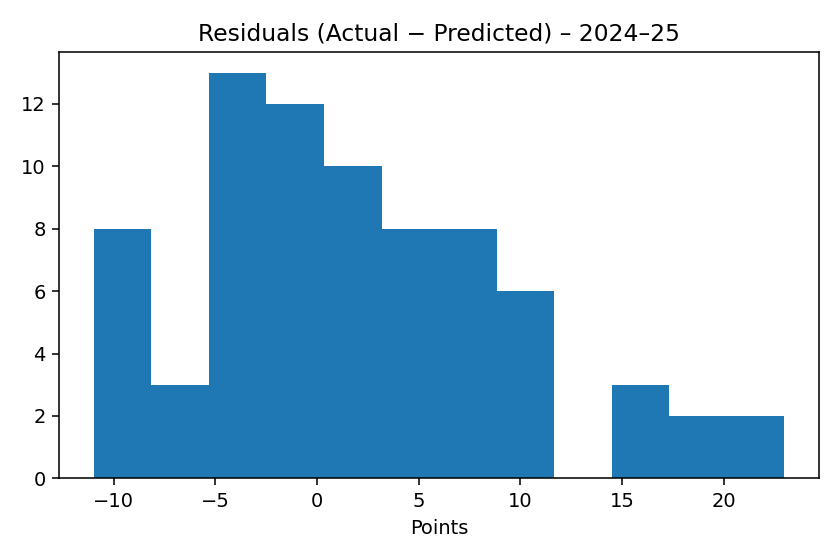
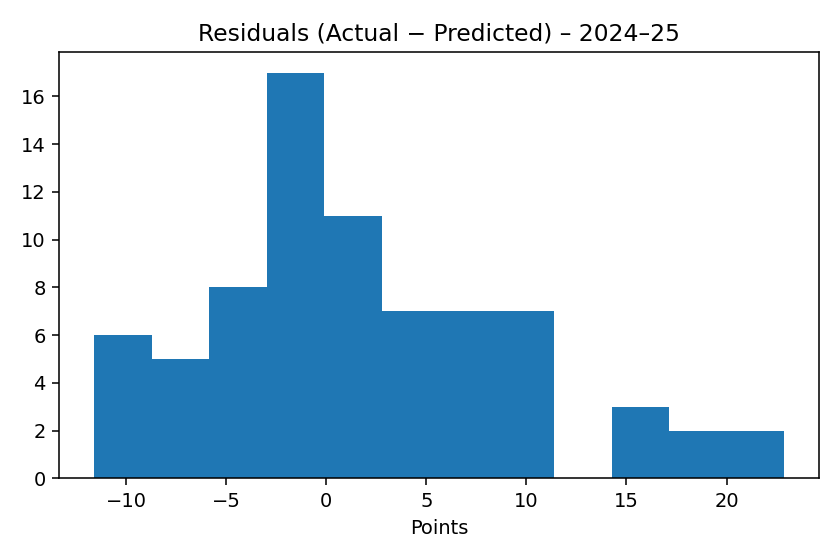
Started refinement f the ElasticNet model with SGA data.

diff --git a/Data/src/Models/sga_elasticnet.py b/Data/src/Models/sga_elasticnet.py
@@ -1,5 +1,6 @@
 import os
 from dotenv import load_dotenv
+
 import time
 import numpy as np
 import pandas as pd
@@ -8,7 +9,7 @@ import matplotlib.pyplot as plt
 from pymongo import MongoClient, UpdateOne
 
 from sklearn.pipeline import Pipeline
-from sklearn.preprocessing import StandardScaler
+from sklearn.preprocessing import StandardScaler, RobustScaler
 from sklearn.linear_model import ElasticNet
 from sklearn.model_selection import GridSearchCV
 from sklearn.metrics import mean_absolute_error, mean_squared_error, r2_score
@@ -44,15 +45,26 @@ DB_NAME   = "sportsinsight"
 PRED_COLL = "predictions_2024_25"
 
 # modest, pre-declared HP grid (no optimization theater)
-PARAM_GRID = {
-    "model__alpha":    [1e-3, 3e-3, 1e-2, 3e-2, 1e-1],
-    "model__l1_ratio": [0.3, 0.5, 0.7],
-}
-
-FEATURE_COLS = [
-    "PTS_L5","REB_L5","AST_L5","MIN_L5","FGA_L5","FTA_L5","FG3A_L5",
-    "OPP_DEF_RATING","REST_DAYS","IS_HOME"
+PARAM_GRID = [
+  {
+    "model": [ElasticNet(max_iter=50000, tol=1e-5, random_state=42)],
+    "model__alpha":    [0.01, 0.02, 0.05, 0.08, 0.12, 0.2],
+    "model__l1_ratio": [0.1, 0.3, 0.5, 0.7],  # <- drop 0.9/1.0 for now
+  },
 ]
+
+BASE_FEATURES = [
+    "PTS_L5","REB_L5","AST_L5","MIN_L5","FGA_L5","FTA_L5","FG3A_L5",
+    "OPP_DEF_RATING","REST_DAYS","IS_HOME","IS_B2B","PTSxMIN_L5",
+    "PTS_per_MIN_L5","FGA_per_MIN_L5","FTr_L5","3PAr_L5"
+]
+
+# Start simple: EWMA(3) and Median(5) for PTS; both are shifted(1) to avoid leakage
+SMOOTH_FEATURES = [
+    "PTS_EWMA3","PTS_MED5",
+    "FGA_EWMA3","FGA_MED5","FTA_EWMA3","FTA_MED5"
+]
+FEATURE_COLS = BASE_FEATURES + SMOOTH_FEATURES
 
 def fetch_gamelog(player_id: int, season: str) -> pd.DataFrame:
     """Use cached fetch, then normalize columns and attach SEASON."""
@@ -97,6 +109,27 @@ def team_def_rating_map(season: str) -> dict:
     """Wrapper that uses cached LeagueDashTeamStats for DEF_RATING."""
     return team_def_rating_map_cached(season=season, sleep_sec=SLEEP_SEC)
 
+def add_smoothing_features(df: pd.DataFrame,
+                           target_col: str = "PTS",
+                           ewm_spans=(3,),
+                           med_windows=(5,)) -> pd.DataFrame:
+    """
+    Adds non-leaky smoothing features on `target_col`.
+    - EWMA uses .ewm(span=s, adjust=False).mean().shift(1)
+    - MED uses .rolling(w).median().shift(1)
+    Assumes df is already sorted by GAME_DATE ascending.
+    """
+    out = df.copy()
+    for s in ewm_spans:
+        out[f"{target_col}_EWMA{s}"] = (
+            out[target_col].ewm(span=s, adjust=False).mean().shift(1)
+        )
+    for w in med_windows:
+        out[f"{target_col}_MED{w}"] = (
+            out[target_col].rolling(w).median().shift(1)
+        )
+    return out
+
 def build_features(df_all: pd.DataFrame) -> pd.DataFrame:
     """Compute past-only features across concatenated seasons, then drop rows missing history."""
     if "SEASON" not in df_all.columns:
@@ -110,6 +143,12 @@ def build_features(df_all: pd.DataFrame) -> pd.DataFrame:
     opp_home = df_all["MATCHUP"].apply(parse_opp_abbr)
     df_all["OPP_ABBR"] = opp_home.apply(lambda x: x[0])
     df_all["IS_HOME"]  = opp_home.apply(lambda x: x[1]).astype(int)
+
+    df_all = df_all.sort_values("GAME_DATE").reset_index(drop=True)
+
+    df_all["TRAVEL"] = (
+        df_all.groupby("SEASON")["IS_HOME"].diff().fillna(0).ne(0).astype(int)
+    )
 
     # Opponent DEF_RATING by season (fallback to median)
     def_maps = {}
@@ -133,11 +172,30 @@ def build_features(df_all: pd.DataFrame) -> pd.DataFrame:
     # For season openers, use days since previous season game if available; otherwise default to 3
     df_all["REST_DAYS"] = df_all["REST_DAYS"].fillna(3).clip(lower=0)
 
-    # Rolling L5 means (shifted) across full chronology (OK: uses prior-season tail for season openers)
+    df_all["IS_B2B"] = (df_all["REST_DAYS"] == 0).astype(int)
+
+    # Rolling L5 means (shifted) across full chronology
     df_all = df_all.sort_values("GAME_DATE").reset_index(drop=True)
     for col in ["PTS","REB","AST","MIN","FGA","FTA","FG3A"]:
         if col in df_all.columns:
             df_all[f"{col}_L5"] = df_all[col].rolling(5).mean().shift(1)
+            df_all[f"{col}_L3"] = df_all[col].rolling(3).mean().shift(1)
+
+    for col in ["FGA","FTA"]:
+        df_all[f"{col}_EWMA3"] = df_all[col].ewm(span=3, adjust=False).mean().shift(1)
+        df_all[f"{col}_MED5"]  = df_all[col].rolling(5).median().shift(1)
+
+    df_all["PTS_EWMA3"] = df_all["PTS"].ewm(span=3, adjust=False).mean().shift(1)
+    df_all["PTS_MED5"]  = df_all["PTS"].rolling(5).median().shift(1)
+    
+    if {"PTS_L5", "MIN_L5"}.issubset(df_all.columns):
+        df_all["PTSxMIN_L5"] = df_all["PTS_L5"] * df_all["MIN_L5"]
+
+    eps = 1e-6
+    df_all["PTS_per_MIN_L5"] = df_all["PTS_L5"] / (df_all["MIN_L5"] + eps)
+    df_all["FGA_per_MIN_L5"] = df_all["FGA_L5"] / (df_all["MIN_L5"] + eps)
+    df_all["FTr_L5"]         = df_all["FTA_L5"] / (df_all["FGA_L5"] + eps)
+    df_all["3PAr_L5"]        = df_all["FG3A_L5"] / (df_all["FGA_L5"] + eps)
 
     # Season-to-date average baseline (shifted, per season)
     df_all["PTS_SEASON_TD"] = df_all.groupby("SEASON")["PTS"] \
@@ -175,16 +233,17 @@ def evaluate_and_report(y_true, y_pred, y_l5, y_season_td):
     print(f"RMSE:       {rmse:.3f}")
     print(f"Median AE:  {med:.3f}")
     print(f"R^2:        {r2:.3f}")
-    print(f"MAE (L5):   {mae_l5:.3f}   → Skill vs L5: {skill_l5:.1f}%")
-    print(f"MAE (STD):  {mae_std:.3f}  → Skill vs Season-to-date: {skill_std:.1f}%")
+    print(f"MAE (L5):   {mae_l5:.3f}   -> Skill vs L5: {skill_l5:.1f}%")
+    print(f"MAE (STD):  {mae_std:.3f}  -> Skill vs Season-to-date: {skill_std:.1f}%")
     return dict(MAE=mae, RMSE=rmse, MedAE=med, R2=r2, MAE_L5=mae_l5, MAE_STD=mae_std,
                 Skill_L5=skill_l5, Skill_STD=skill_std)
 
 def save_plots(pred_df: pd.DataFrame):
+
     # Pred vs Actual
     plt.figure(figsize=(10,5))
     plt.plot(pd.to_datetime(pred_df["GAME_DATE"]), pred_df["PTS"], marker="o", label="Actual PTS")
-    plt.plot(pd.to_datetime(pred_df["GAME_DATE"]), pred_df["PRED_PTS"], marker="o", label="ElasticNet")
+    plt.plot(pd.to_datetime(pred_df["GAME_DATE"]), pred_df["PRED_PTS"], marker="o", label="ElasticNet (calibrated)")
     plt.plot(pd.to_datetime(pred_df["GAME_DATE"]), pred_df["L5_BASELINE"], linestyle="--", label="L5 baseline")
     plt.xticks(rotation=45, ha="right")
     plt.title("SGA – Predicted vs Actual (2024–25)")
@@ -229,6 +288,14 @@ def save_predictions_to_mongo(pred_df: pd.DataFrame):
     except Exception as e:
         print(f"(Mongo warning) Could not save predictions: {e}")
 
+def show_coefs(pipe, feat_cols):
+    lr = pipe.named_steps["model"]
+    w = lr.coef_
+    ranked = sorted(zip(np.abs(w), w, feat_cols), reverse=True)
+    print("\nTop |w| coefficients:")
+    for _, val, name in ranked[:12]:
+        print(f"{name:>14s}: {val:+.3f}")
+
 
 if __name__ == "__main__":
     # 1) Fetch raw data
@@ -243,7 +310,9 @@ if __name__ == "__main__":
             else:
                 print(f"{s}: no games")
         except Exception as e:
-            print(f"Fetch error {s}: {e}")
+            print(f"Network error fetching {s}: {e}")
+        except Exception as e:
+            print(f"An unexpected error occurred for {s}: {e}")
     if not dfs:
         raise SystemExit("No data fetched.")
     raw = pd.concat(dfs, ignore_index=True).sort_values("GAME_DATE").reset_index(drop=True)
@@ -254,13 +323,16 @@ if __name__ == "__main__":
     # 3) Split into train (<=2023–24) and test (2024–25)
     train = feats[feats["SEASON"].isin(TRAIN_SEASONS)].copy()
     test  = feats[feats["SEASON"] == TEST_SEASON].copy()
+    feat_cols = [c for c in FEATURE_COLS if c in train.columns and c in test.columns]
+    if not feat_cols:
+        raise SystemExit("No usable features after intersection. Check feature engineering.")
     if train.empty or test.empty:
         raise SystemExit("Train or test set is empty after feature building.")
 
-    X_train = train[FEATURE_COLS].values
+    X_train = train[feat_cols].values
     y_train = train["PTS"].values
 
-    X_test  = test[FEATURE_COLS].values
+    X_test  = test[feat_cols].values
     y_test  = test["PTS"].values
 
     # Baselines for test
@@ -270,9 +342,10 @@ if __name__ == "__main__":
     # 4) Expanding-window CV (inside 2013–24) for ElasticNet
     cv_splits = list(expanding_window_splits(train))
     pipe = Pipeline([
-    ("scaler", StandardScaler()),
-    ("model", ElasticNet(max_iter=10000, random_state=42)),
+        ("scaler", RobustScaler()),
+        ("model", ElasticNet(max_iter=50000, tol=1e-5, random_state=42)),
     ])
+
 
     gs = GridSearchCV(
         pipe,
@@ -291,7 +364,68 @@ if __name__ == "__main__":
     # 5) Final fit on all 2013–24 and predict 2024–25
     best_model = gs.best_estimator_
     best_model.fit(X_train, y_train)
-    y_pred = best_model.predict(X_test)
+    show_coefs(best_model, feat_cols)
+
+    last_tr_idx, last_va_idx = list(expanding_window_splits(train))[-1]
+    X_val = train.iloc[last_va_idx][feat_cols].values
+    y_val = train.iloc[last_va_idx]["PTS"].values
+
+    y_val_hat = best_model.predict(X_val)
+
+    # guard against degenerate variance before computing corr
+    if np.std(y_val_hat) < 1e-8 or np.std(y_val) < 1e-8:
+        corr = np.nan
+    else:
+        corr = float(np.corrcoef(y_val_hat, y_val)[0, 1])
+
+    a, b = 0.0, 1.0                      # identity by default (no calibration)
+    calib_msg = "identity (no calibration)"
+
+    # initialize temps so they exist even if the block is skipped
+    a_tmp, b_tmp = np.nan, np.nan
+
+    if np.isfinite(corr) and corr > 0.2:
+        A = np.column_stack([np.ones_like(y_val_hat), y_val_hat])
+        try:
+            a_tmp, b_tmp = np.linalg.lstsq(A, y_val, rcond=None)[0]
+        except np.linalg.LinAlgError:
+            a_tmp, b_tmp = np.nan, np.nan
+
+    # only accept a reasonable positive slope
+    if np.isfinite(b_tmp) and 0.25 <= b_tmp <= 1.75:
+        a, b = float(a_tmp), float(b_tmp)
+        calib_msg = f"y ≈ {a:.3f} + {b:.3f}·ŷ"
+
+    l5_val  = train.iloc[last_va_idx]["PTS_L5"].values
+    std_val = train.iloc[last_va_idx]["PTS_SEASON_TD"].values
+
+    # search λ in [0..1] to blend model with the better of L5 / STD (choose one)
+    base_val = l5_val  # or std_val
+    y_val_model = a + b * best_model.predict(X_val)
+
+    best_lam, best_mae = 1.0, float("inf")
+    for lam in np.linspace(0.0, 1.0, 11):
+        y_blend = lam * y_val_model + (1 - lam) * base_val
+        mae = mean_absolute_error(y_val, y_blend)
+    if mae < best_mae:
+        best_mae, best_lam = mae, lam
+
+    # Test-time blending
+    y_pred_model = a + b * best_model.predict(X_test)
+    base_test = test["PTS_L5"].values  # or test["PTS_SEASON_TD"].values
+    y_pred = np.clip(best_lam * y_pred_model + (1 - best_lam) * base_test, 0, 80)
+    print(f"Blending: λ={best_lam:.2f} (model weight)")
+
+    y_pred_raw = best_model.predict(X_test)
+    y_pred = np.clip(a + b * y_pred_raw, 0, 80)
+    print(f"Calibration used: {calib_msg}, corr={corr if np.isfinite(corr) else float('nan'):.3f}")
+
+    if "PTS_EWMA3" in test.columns:
+        mae_ewma = mean_absolute_error(y_test, test["PTS_EWMA3"].values)
+        print(f"Baseline MAE (EWMA3): {mae_ewma:.3f}")
+    if "PTS_MED5" in test.columns:
+        mae_med5 = mean_absolute_error(y_test, test["PTS_MED5"].values)
+        print(f"Baseline MAE (MED5):  {mae_med5:.3f}")
 
     # 6) Evaluate on 2024–25
     metrics = evaluate_and_report(y_test, y_pred, l5_base, std_base)
@@ -301,11 +435,13 @@ if __name__ == "__main__":
     out["PRED_PTS"]     = y_pred
     out["L5_BASELINE"]  = l5_base
     out["STD_BASELINE"] = std_base
-    out.to_csv("sga_elasticnet_2024_25_predictions.csv", index=False)
-    print("Saved CSV: sga_elasticnet_2024_25_predictions.csv")
+    csv_path = f"{PLAYER_NAME.replace(' ', '_')}_elasticnet_2024_25_predictions.csv"
+    out.to_csv(csv_path, index=False)
+    print(f"Saved CSV: {csv_path}")
 
     save_plots(out)
     print("Saved plots: sga_pred_vs_actual_2024_25.png, sga_residuals_hist_2024_25.png")
 
     save_predictions_to_mongo(out)
     print("Done.")
+
